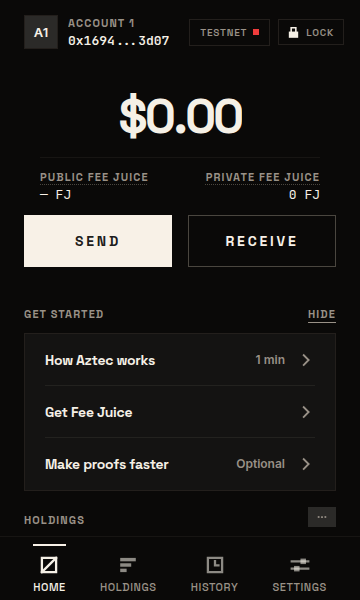
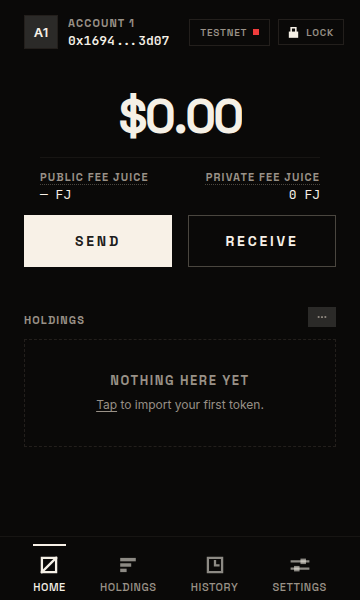
docs(plans): onboarding-3 records oa-16 and its screenshots
The owner's build-test note on imported profiles, its consult, review and
validation, and Home after a passkey and a phrase import.

diff --git a/implementations-plan/archive/onboarding-3/plan.md b/implementations-plan/archive/onboarding-3/plan.md
@@ -1,8 +1,8 @@
 ---
 plan: onboarding-3
 tier: mid
-status: completed (2026-10-18): one draft PR carries the arc, the owner's page 39 and 41 answers and this close-out, held for the owner's build test; OA-14 and OA-15 wait on the owner
-issues: "#588 #585 #581 #636 (one arc closes all four)"
+status: completed (2026-10-18): one draft PR carries the arc, the owner's page 39 and 41 answers, OA-16 from the build test and this close-out, held for the owner's build test; OA-14 and OA-15 wait on the owner
+issues: "#588 #585 #581 #636 #768 (one arc closes all five)"
 driver: claude-code
 claude_model: opus
 codex_model: sol
@@ -32,7 +32,7 @@ post_implementation_hardening: not scheduled
   - P33-01 D: Home's Get started card, and the urgent banner for a funded password wallet whose phrase is unsaved. Its flags are per-profile UI keys, never proof of a backup.
   - P33-03 A, P39-11 A and its note: How Aztec works opens `https://nulo.sh/how-aztec-works`; the landing builds that page in #723 (#722).
   - P39-08 F: Welcome's first line is "A wallet that keeps your balance to yourself."
-  - P39-16 B: a wallet imported from its recovery phrase starts with "Save your recovery phrase" done; a backup-file import keeps it.
+  - #768, OA-16 (the owner's build-test note): a profile made by an import (phrase, passkey or Full Backup) shows no Get started card and no banner. It supersedes P39-16 B. The profile service records the import (D24).
   - #581, #636 (P35-02 B): the done tip is the one sentence.
   - Review: three Codex rounds (gpt-6.1-sol, high) and one Opus review. Fixed in review:
     - a locked bootstrap shows no words;
@@ -44,6 +44,7 @@ post_implementation_hardening: not scheduled
 - **Dropped:** none. OA-1 to OA-12 ship the owner's page 39 and 41 answers; P39-09 A, P39-10 A, P39-15 A and P39-17 A were already built. OA-13 ships its "what ships now". O8 (`Pick<GasSlice>`) was declined, with its reason under Audit verdicts.
 - **Known limits:** #726 (clipboard scrub), #727 (bootstrap after Back), #728 (Full Backup's flag on a popup close), #729 (the phrase step after a lock).
 - **Open items:**
+  - #769: the card's steps for a second profile, drawn for a decision page and not built; #770: the phrase page's "Retrieve Recovery Phrase", held for the owner's pick;
   - #722: the landing's How Aztec works page, built in #723;
   - #730: Presto's onboarding-only leftovers;
   - OA-14 (the popup's first-run line) and OA-15 (the warnings' full stops), in [OWNER-ASKS.md](OWNER-ASKS.md).
@@ -89,6 +90,7 @@ Decision page 39 (signed 2026-10-17 19:03Z) answered OA-1 to OA-12, and page 41 
 | P39-17 A | "Go on to Ready; Home's item stays and Settings shows the phrase after the password." | as built |
 | P39-18 C + note | "Settings' three Keep in mind warnings under the grid." "Though the third warning, I'd improve it. Because it is not true it's considered one of the best ways, if it's unencrypted. So it kinda contradicts itself with the second bullet point." | the warnings under the tab's grid (D22) |
 | P41-04 C | "Paper keeps the phrase off every computer; keep it somewhere safe from loss, water and fire." | the third warning on both screens |
+| OA-16 (#768, 2026-10-18, build test) | "When importing a Passkey, the steps on Home say 'Backup… etc'. but… if I imported: means I already have it backed up. Feels like when we import, we shouldn't show any of those things (getting started)." | no card and no banner for an imported profile; supersedes P39-16 B (D24) |
 
 ## Issue claims that did not hold
 
@@ -96,6 +98,7 @@ Decision page 39 (signed 2026-10-17 19:03Z) answered OA-1 to OA-12, and page 41 
 - **#581.** At HEAD the done page names no browser: #642 (f695dea4) replaced "Chrome toolbar". #636's dropped sentence is what is left; the PR closes both.
 - **Lane brief, out of scope.** It lists #636 as out of scope and also asks to close it; P35-02 B is signed, so it is in.
 - **P28's "the fees page shrinks to one sentence"** is superseded by P30-01 A: the fees step leaves.
+- **The OA-16 brief's "an account file".** No import makes a profile from an account file: Settings › Accounts › Import adds an account to an existing profile, which keeps its card.
 - **The Ready drawing's copy** ("Pin Nulo so it's one click away…") and pin picture yield to the signed P35-02 B sentence.
 
 ## Outcome & Quality Bar
@@ -313,7 +316,7 @@ All signed; the PR body quotes each pick id with the owner's notes, and carries 
 | Onboarding phrase step | grid, three warnings, Copy beside "I saved it", "Do it later" | P33-02 C + note; P39-07 C, P39-17 A, P39-18 C, P41-04 C |
 | Welcome | first line: pair 5 | P39-08 F |
 | Ready | tip sentence alone | P35-02 B |
-| Home | Get started card; urgent banner; How Aztec works opens its final address | P30-01 A, P30-02 A, P33-01 D; P39-09 A, P39-10 A, P39-11 A, P39-16 B |
+| Home | Get started card; urgent banner; How Aztec works opens its final address; neither card nor banner for an imported profile | P30-01 A, P30-02 A, P33-01 D; P39-09 A, P39-10 A, P39-11 A; OA-16 |
 | Settings › Backup › Recovery Phrase | numbered grid with Copy under it, in place of the one-line field; the third warning reworded | P33-02 C; P39-14 A, P41-04 C |
 | Settings › Profiles › New profile | Passkey first and selected | P39-13 B |
 | Store listing captures | Home as an established wallet | P39-15 A |
@@ -357,6 +360,8 @@ Outline B (local `outline-b.md`, safest-first) split the arc into two PRs: B1 (t
 | D21 | The How Aztec works address (P39-11 A) | one constant, `HOW_AZTEC_WORKS_URL` | a `VITE_` override like the fee card's: CI's build-env guard allows only two, and widening it is a security-control change |
 | D22 | The warnings on two screens (P39-18 C) | one constant, `utils/recovery-phrase-warnings.ts`, rendered by each screen | an L3 component for three lines of static text |
 | D23 | The Firefox BiDi socket (found by the PR's CI) | `bidi-attach.ts` opens it with `ws` and the options of Puppeteer's own BiDi transport; the e2e skill's row 57 holds the evidence. The dependency change is only what the import needs under the isolated linker: `apps/extension` devDependencies gain `ws` 8.21.3, exact, the version puppeteer-core already locks, so no new `ws` code enters the tree, and `@types/ws` ^8.18.2 for the e2e typecheck, the one package new to `bun.lock` (published 2026-09-29, past the 7-day gate). In `bun.lock` the hoisted `ws` key now names 8.21.3 and viem keeps its pinned 8.18.3 nested; the one consumer that moves is `isows`, whose any-version `ws` peer now resolves 8.21.3 (below 8.21.0 sit two `ws` advisories the audit acks hold for viem's copy). Neither `ws` nor `isows` reaches the extension's bundle: `isows`'s browser export uses the page's WebSocket, and the built notices list neither | reverting Passkey first (hides the trigger, keeps the broken client); a retry or a longer timeout (masks it); reaching `ws` through puppeteer-core undeclared (the linker rule) |
+
+| D24 | How Home knows a profile was imported (OA-16) | a fifth per-profile flag, `nulo:ui:profileImported@`, written by the profile service right after each import's row (phrase, passkey, both restores), under the lock and best effort; `getStartedView` returns nothing when it is set | writing `phraseSaved`, `backupSaved` and `hidden` at import (records actions that never happened); the write in the import pages (a Firefox passkey window or a closed popup ends the page first, and a restore left on its errors screen never completes); a profile-row field (backup surface) |
 
 ## Audit verdicts
 
@@ -435,6 +440,19 @@ Outline B (local `outline-b.md`, safest-first) split the arc into two PRs: B1 (t
 | P39-R1-2: three comments narrate or carry release coordination (`useProfileCreateFlow.ts`, `RecoveryPhraseGrid.vue`'s `testId` doc, `get-started.ts`) | demonstrated | removed or trimmed |
 
 **Page 39 round 2** (same session, verify only, over 0ab5a6f7): "No remaining findings; high confidence." The loop stops here.
+
+**OA-16 consult** (2026-10-18, new Codex session, gpt-6.1-sol high, read-only): "Choose B; confidence high" (the `imported` flag over reusing three flags); suppress the banner too, high; place the write in the service's import commits for the literal invariant, since a finalize failure or an abandoned errors screen never reaches the page's completion; keep both network specs' proofs by asserting the imported wallet's empty Home, then removing its record to drive the banner. All taken (D24).
+
+**OA-16 review** (same Codex session, over the working-tree diff; Opus `general-purpose` alongside):
+
+| Finding | Evidence | Disposition |
+|---|---|---|
+| Cx P2: `useProfileImportFlow.test.ts` still pins the removed `phraseSaved` write | demonstrated: the file had reverted to the branch's copy during a baseline build | restored to `dev`'s copy; 20 of 20 pass |
+| Op P3: `markGetStarted` and `mark` accept `imported`, a second writer outside the lock | plausible | page writers take `MarkableGetStartedFlag` |
+| Op P3: two comments call an imported wallet backed up, against "never proof of a backup" | demonstrated | reworded to what the rule does |
+| Op P3: `components.d.ts` churn from a vitest run | not in the tree | none |
+
+Verify round (same Codex session): "No remaining findings." The loop stops here.
 
 ## Post-implementation
 

diff --git a/implementations-plan/archive/onboarding-3/lessons/phase-5.md b/implementations-plan/archive/onboarding-3/lessons/phase-5.md
@@ -24,3 +24,11 @@
 - The PR's CI, at 2adb03f5, failed Firefox smoke shard 2 on `legal-acceptance` S10 in 6 of 6 attempts over the run and its one rerun; locally it passed alone, in CI's file order, on 4 CPUs and on CI's Node 22.23.3. Three diagnostic runs on a scratch branch (Actions runs 39105816643, 39107183013, 39108742029): the harness's BiDi socket (Node's built-in WebSocket) closed with 1006, `wasClean` false and no `error` event, 0.15 to 0.35 s after the test reached About; with geckodriver at trace, Firefox's RemoteAgent logged the connection closed without having received the client's next command; Firefox and the classic session stayed up; no OOM, no dump. Two experiments: reverting Passkey first passed S10 (39110238032), and opening the socket with `ws` (Puppeteer's own transport) passed every shard with Passkey first kept (39110239562). On the fix, locally at retry 0: Firefox smoke shard 2/3 20 files and 97 tests, Chrome `legal-acceptance` 14 of 14, Firefox network `frozen-account-canary`, `hero-prices-unavailable`, `snack-placement` and `session-profileSwitch` 4 of 4. Fix D23; e2e skill row 57.
 - Consult (Codex gpt-6.1-sol, high, read-only): "Take with changes." High confidence the swap is proportionate, moderate that undici itself is the cause; take Puppeteer's options (`perMessageDeflate: false`, `allowSynchronousEvents: false`), drop the DOM `MessageEvent` type, update FIREFOX.md's bad-port line, and record the cause as a native-WebSocket disconnect avoided by `ws`, not a proven undici bug. All taken.
 - Declaring `ws` re-gated the extension's tree on three Aztec rc.3 packages under 7 days old; installed with the exclude added locally and not committed (SECURITY.md, runbook step 4), then `bun install --frozen-lockfile --force` passed with it removed. The lock gains `@types/ws` only; `ws` 8.21.3 is the version puppeteer-core already locked, and the audit gate reads 41 acknowledged, 0 unacknowledged, 0 stale.
+
+## The owner's build test (2026-10-18)
+
+- #768 (OA-16): an imported profile shows no Get started card and no banner. Consult: Codex chose the fifth flag over writing three existing ones, which would record actions that never happened. It also moved the write out of the import pages: a Firefox toolbar passkey import ends the page when the passkey window takes focus, and a restore left on its errors screen never reaches the page's completion. So the profile service writes the flag after each import's row, under the lock, best effort (D24).
+- Each new test was run with its fix reverted, and each went red: the service marks (five, including the adopted-id restore's write sequence), the view rule (one pure test, three on Home), and the refused-write control without its catch.
+- Two network specs depended on an imported wallet showing the card. `hero-prices-unavailable` now asserts the imported wallet's empty Home, then removes the import record as explicit setup, so the funded banner → reveal → gone proof stays. `store-captures` drops its reveal and Hide: a phrase-imported wallet already frames as an established one.
+- The full Chrome smoke suite at retry 0 (load1 135 to 147): 255 of 256. `security-reset`'s "reset purges within the same budget while the node refuses connections" left its tombstone past the 15 s budget twice at load1 ≈ 140. It passed twice on the change at load1 ≈ 97, and once on a build without the change at ≈ 140. The budget is load-sensitive; the change does not touch deletion beyond one more prefix in `profileUiKeys`.
+- A mockup over an extension page cannot inject a `<style>` element, because the page's CSP refuses inline styles. It sets `element.style` through the CSSOM instead. A screenshot of a page whose `window.open` put a new tab in front hangs in headless Chrome, so the mockup stubs `window.open` after the flag is written.

diff --git a/implementations-plan/archive/onboarding-3/OWNER-ASKS.md b/implementations-plan/archive/onboarding-3/OWNER-ASKS.md
@@ -2,7 +2,7 @@
 
 The arc builds every signed pick in full (decision pages 28, 29, 30, 33 and 35; see plan.md § Signed scope). Each ask below is a visible choice the picks do not settle. Each has a "what ships now" line: the arc builds that line, and an answer that lands before the PR opens ships with the arc. The PR stays a draft until the owner tests the build (the owner's note on P33-01). The PR's light and dark screenshots show every "what ships now" as built.
 
-**Answers.** The owner answered OA-1 to OA-12 on decision page 39 (2026-10-17 19:03Z) and OA-12's third warning on page 41 (2026-10-18 00:08Z); the same draft PR ships every answer. OA-13 ships its "what ships now". OA-14 and OA-15 came up while building the answers.
+**Answers.** The owner answered OA-1 to OA-12 on decision page 39 (2026-10-17 19:03Z) and OA-12's third warning on page 41 (2026-10-18 00:08Z); the same draft PR ships every answer. OA-13 ships its "what ships now". OA-14 and OA-15 came up while building the answers. OA-16 is the owner's note from the build test (#768), shipped in the same PR.
 
 ## OA-1. Where Copy sits on the phrase grid (the owner's note on P33-02)
 
@@ -194,3 +194,19 @@ The wallet clears the clipboard 60 seconds after a copy, but only while the page
 - **Other options:** add a full stop to the first two, or drop the third's.
 
 **Recommendation: add a full stop to the first two**, each being a sentence. **What ships now: as worded.**
+
+## OA-16. An imported profile shows no Get started card (#768)
+
+**Surface:** Home, the Get started card and the urgent banner above the balance.
+
+**Answered (owner, 2026-10-18, on the #743 preview build, #768):** "When importing a Passkey, the steps on Home say 'Backup… etc'. but… if I imported: means I already have it backed up. Feels like when we import, we shouldn't show any of those things (getting started)."
+
+**What ships:**
+- A profile made by an import (Recovery Phrase, Passkey or Full Backup; password or passkey alike) shows no Get started card.
+- It shows no "Your funds have no backup" banner either: the banner is the card's phrase row once the wallet holds funds.
+- This supersedes P39-16 B, where a phrase import started with only the phrase row done and a backup-file import kept it.
+- A profile made in the wallet keeps the card and the banner as before.
+
+**How it is recorded:** the profile service writes one per-profile, device-local key when an import saves the profile, so a passkey window or a closed popup cannot lose it. No backup carries the key, and deleting the profile removes it. Creating a profile never writes it.
+
+**Not a profile import:** Settings › Accounts › Import adds an account file to an existing profile, so that profile keeps its card.
